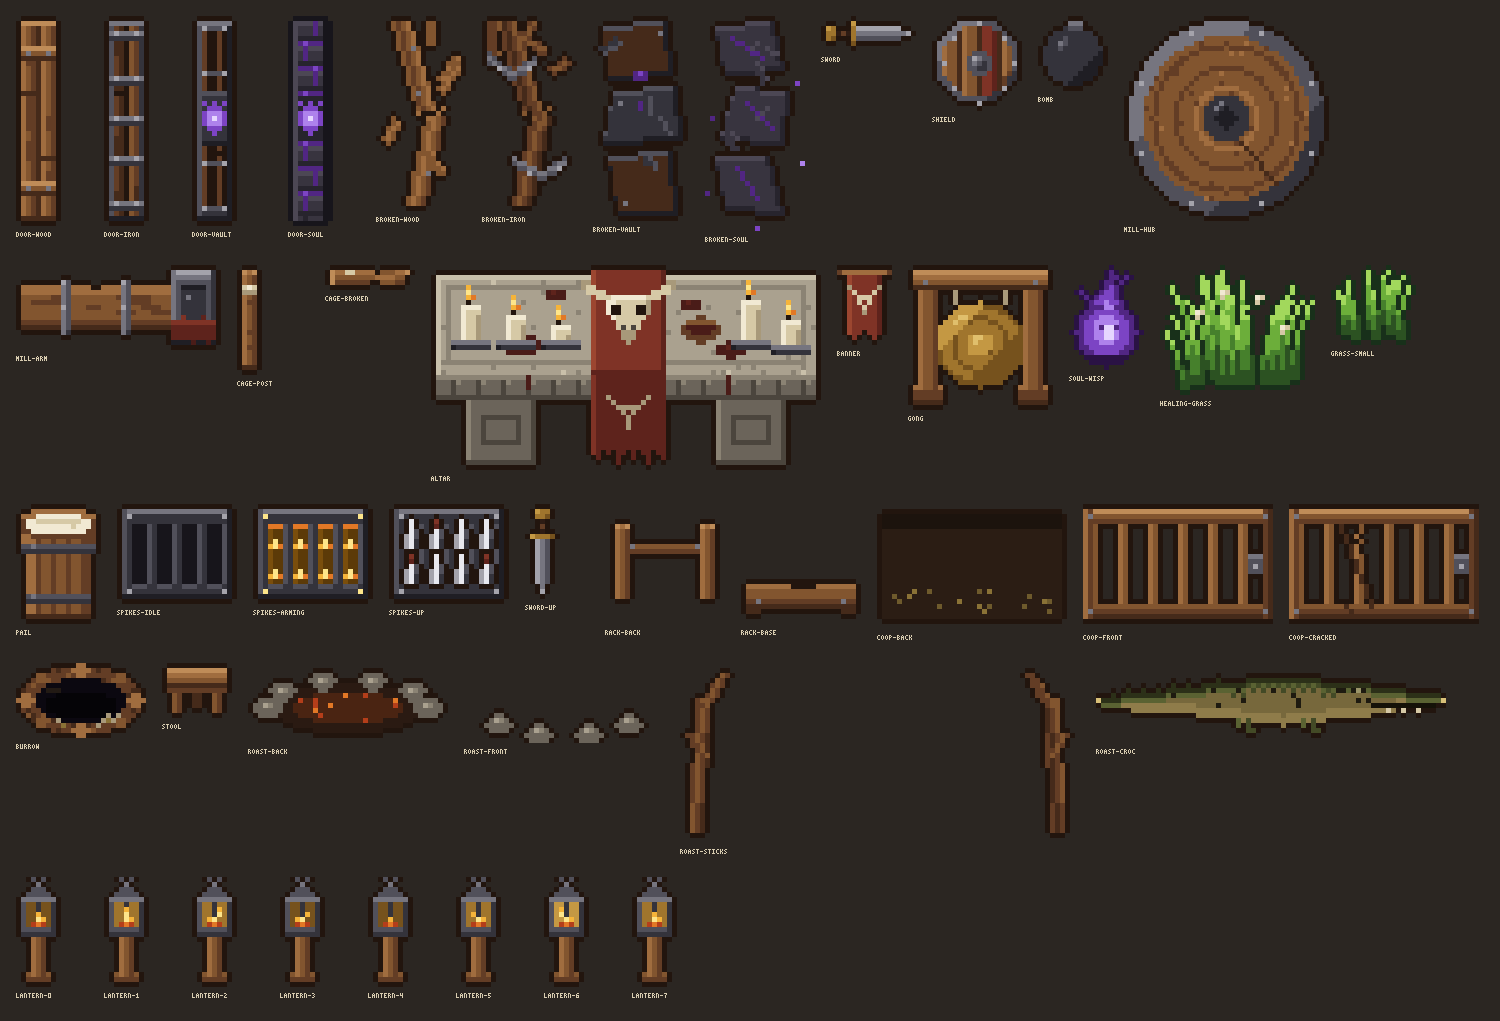
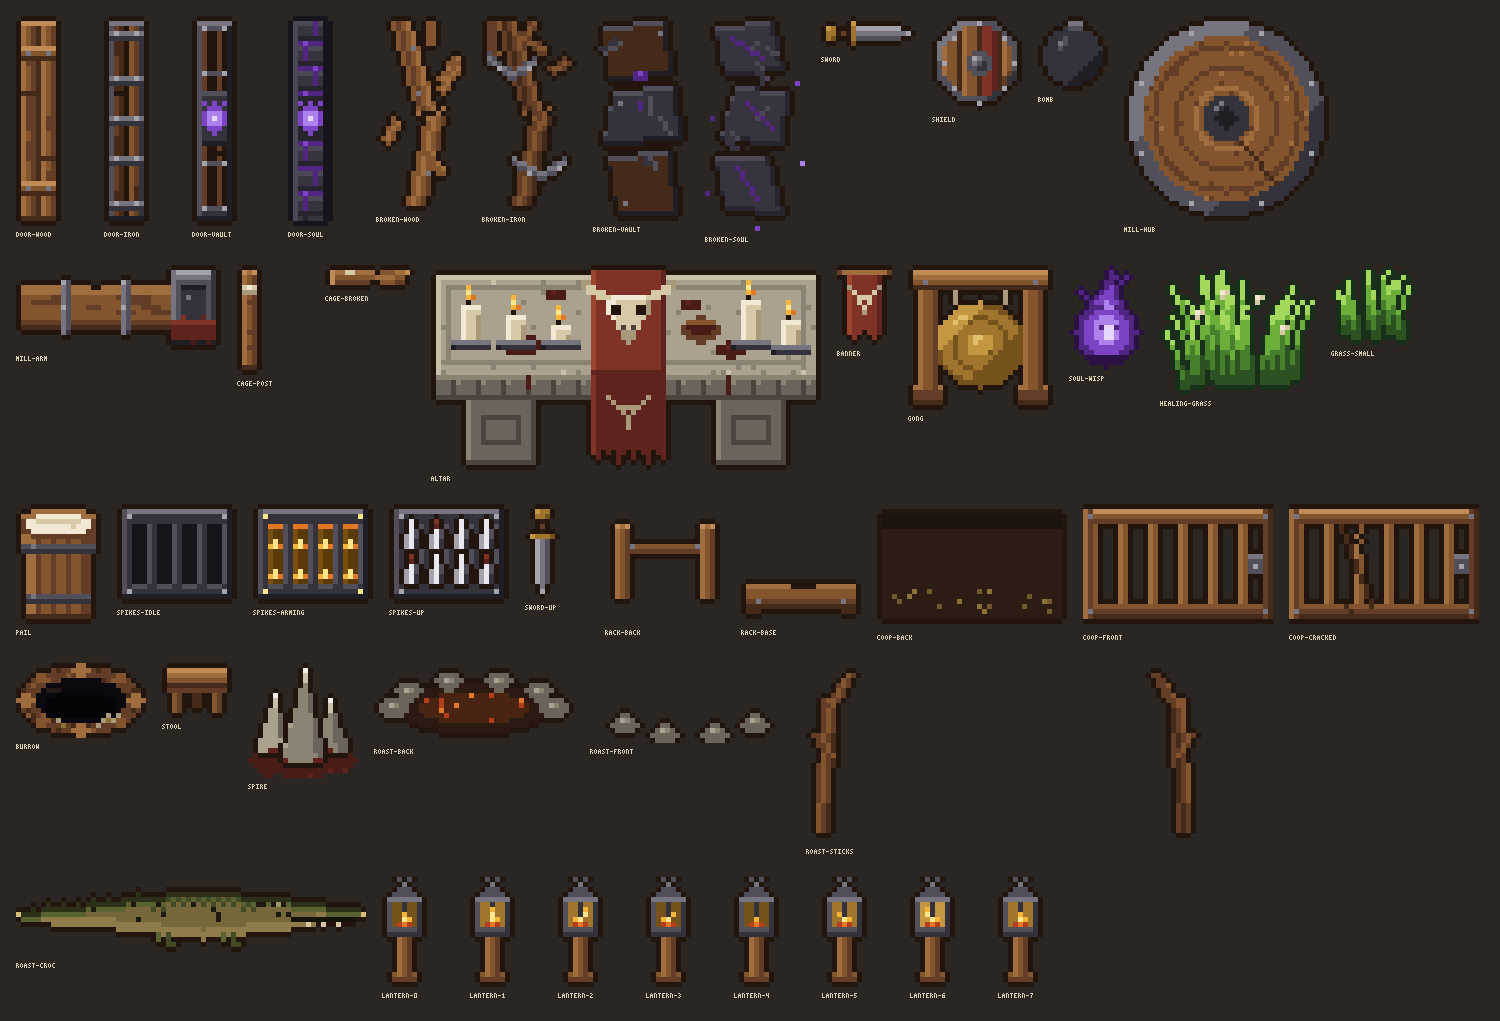
1.64: the cave's teeth and the stairs in pixels
Renderer.drawSpire and drawStairs are wrapped in js/prop-pixels.js: three
stone teeth in a pool of old blood, and stone steps on the pixel grain
(riser, lit nosing, speckled tread), the fork's cold flight going into
black with a cold rim and no pulse.

diff --git a/js/prop-pixels.js b/js/prop-pixels.js
@@ -606,6 +606,26 @@ const PROP_PIXELS = (() => {
     return g.outline();
   }
 
+  // ---------------------------------------------------------------- the cave's teeth
+  // Three stone teeth standing out of old blood: the back two lower, the front one tall, every point
+  // the brightest thing on it. The blood round the foot is what says the rock kills. 22 x 24.
+  function spire() {
+    const pool = new Grid(22, 24), r = rng(101);
+    pool.ell(11, 20.5, 10.5, 3.2, P.bl); pool.speckle(r, 26, P.r1, [P.bl]); pool.speckle(r, 8, P.r2, [P.bl]);
+    pool.ell(4, 22.5, 2.4, 1.2, P.bl); pool.set(19, 22, P.r1);
+    const tooth = (g, x0, x1, tx, ty, by) => {
+      g.poly([[x0, by], [tx + 0.5, ty], [x1, by]], P.s2);
+      g.tone((x, y) => x + 0.5 > tx + 0.5 + (y - ty) * 0.12, P.s1, [P.s2]);        // the far side in shade
+      g.tone((x, y) => x < tx - 1 + (y - ty) * -0.25 + 1, P.s3, [P.s2]);            // the lit edge
+      for (let y = ty; y < ty + 3; y++) g.set(tx, y, y === ty ? '#f2efe6' : P.s4);   // the point
+      for (let x = Math.ceil(x0); x < x1; x++) if (r() < 0.45) g.set(x, by - 1, P.r1); // blood up the foot
+    };
+    const back = new Grid(22, 24), front = new Grid(22, 24);
+    tooth(back, 1.5, 8.5, 5, 7, 19); tooth(back, 13.5, 20.5, 16, 8, 19); back.outline();
+    tooth(front, 6.5, 15.5, 11, 2, 21); front.outline();
+    return pool.blit(back, 0, 0).blit(front, 0, 0);
+  }
+
   const sprites = {
     'door-wood': doorWood(), 'door-iron': doorIron(), 'door-vault': doorVault(), 'door-soul': doorSoul(),
     'broken-wood': debris('wood'), 'broken-iron': debris('iron'), 'broken-vault': debris('vault'), 'broken-soul': debris('soul'),
@@ -616,12 +636,12 @@ const PROP_PIXELS = (() => {
     'spikes-idle': grating('idle'), 'spikes-arming': grating('arming'), 'spikes-up': grating('up'),
     'sword-up': swordUp(), 'rack-back': rackBack(), 'rack-base': rackBase(),
     'coop-back': coopBack(), 'coop-front': coopFront(false), 'coop-cracked': coopFront(true),
-    burrow: burrow(), stool: stool(), 'roast-back': roastRing(false), 'roast-front': roastRing(true), 'roast-sticks': roastSticks(), 'roast-croc': croc(),
+    burrow: burrow(), stool: stool(), spire: spire(), 'roast-back': roastRing(false), 'roast-front': roastRing(true), 'roast-sticks': roastSticks(), 'roast-croc': croc(),
   };
   for (let k = 0; k < 8; k++) sprites['lantern-' + k] = lantern(k);
   // A layered sprite keeps its whole frame so its layers line up; everything else is cut to its silhouette.
   for (const k in sprites) if (!/^(rack|coop|roast)-/.test(k)) sprites[k] = sprites[k].trim();
-  return { P, Grid, sprites };
+  return { P, Grid, sprites, rng };
 })();
 if (typeof module !== 'undefined') module.exports = PROP_PIXELS;
 
@@ -632,7 +652,7 @@ if (typeof module !== 'undefined') module.exports = PROP_PIXELS;
 // drawn here outright at `TX` world px a texel, the grain of the crate and barrel beside them.
 // `PROP_PIXELS.on = false` (or `#paintedprops`) brings the old ones back for a side-by-side.
 if (typeof document !== 'undefined' && typeof PaintedArt !== 'undefined') (() => {
-  const UP = 4, TX = 1.35, baked = {}, S = PROP_PIXELS.sprites;
+  const UP = 4, TX = 1.35, baked = {}, S = PROP_PIXELS.sprites, rng = PROP_PIXELS.rng;
   PROP_PIXELS.on = !/paintedprops/.test(location.hash);
   const canvasOf = name => {
     if (baked[name]) return baked[name];
@@ -796,7 +816,58 @@ if (typeof document !== 'undefined' && typeof PaintedArt !== 'undefined') (() =>
     return drawProp.call(this, renderer, p);
   };
 
-  const R = Renderer.prototype, drawPail = R.drawPail, drawBurrow = R.drawBurrow, drawRoast = R.drawRoast;
+  const R = Renderer.prototype, drawPail = R.drawPail, drawBurrow = R.drawBurrow, drawRoast = R.drawRoast,
+    drawSpire = R.drawSpire, drawStairs = R.drawStairs;
+  // The cave's teeth, with their point catching the light now and then (`cave.spikes.glint`).
+  R.drawSpire = function (p) {
+    if (!PROP_PIXELS.on) return drawSpire.call(this, p);
+    const g = S.spire, k = p.r * 2.4 / g.w, x0 = p.x - g.w * k / 2, y0 = p.y + 5 - g.h * k;
+    this.shadow(p.x, p.y + 2, p.r * 0.95, p.r * 0.42);
+    put(this.ctx, 'spire', x0, y0, k);
+    const tw = Math.pow(Math.max(0, Math.sin(this.t * 1.6 + p.x * 0.05)), 8);
+    if (tw > 0.04 && !this.baking) { this.ctx.fillStyle = `rgba(255,255,255,${tw * TUNING.cave.spikes.glint})`; this.ctx.fillRect(x0 + 10 * k, y0 + 1 * k, k * 1.5, k * 1.5); }
+  };
+  // A flight of stairs as stone steps on the pixel grain: each tile four steps, each step a dark riser,
+  // a lit nosing and a speckled tread, the slabs' joints staggered step to step. Up a flight the treads
+  // pale toward the light at the top; the fork's cold flight and the way down go into black. Baked once
+  // per level colour, direction and tile of the flight.
+  const hex = c => { const n = parseInt(c.slice(1, 7), 16); return [n >> 16 & 255, n >> 8 & 255, n & 255]; };
+  const mix = (a, b, t) => a.map((v, i) => Math.round(v + (b[i] - v) * t));
+  const css = c => `rgb(${c[0]},${c[1]},${c[2]})`;
+  const BONE = [239, 230, 208], BLACK = [5, 4, 8], COLD = [150, 158, 210];
+  const stairTile = (def, k, up, cold, v) => {
+    const key = [def.wall, def.wallTop, k, up, cold, v].join('|');
+    if (baked[key]) return baked[key];
+    const c = document.createElement('canvas'), x = c.getContext('2d'), N = 24, r = rng(k * 31 + v * 7 + (up ? 3 : 0));
+    c.width = c.height = N * UP;
+    for (let i = 0; i < 4; i++) {
+      const n = k * 4 + i, f = Math.min(1, n / 11);
+      let tread = hex(up ? def.wallTop : def.wall);
+      if (up && cold) tread = mix(tread, BLACK, 0.3 + 0.68 * f);
+      else if (up) tread = mix(tread, BONE, 0.1 + 0.68 * f * f);
+      else tread = mix(mix(tread, BONE, 0.04 + 0.34 * f), BLACK, 0.85 * (1 - f) * (1 - f));
+      const joint = (n * 3) % 8;
+      for (let yy = 0; yy < N; yy++) for (let q = 0; q < 6; q++) {
+        let col = tread;
+        if (q === 0) col = mix(tread, BLACK, 0.5);
+        else if (q === 1) col = up && cold ? mix(tread, COLD, 0.26 * (1 - f)) : mix(tread, BONE, 0.2);
+        else if ((yy - joint + 8) % 8 === 0) col = mix(tread, BLACK, 0.3);
+        else { const d = r(); if (d < 0.16) col = mix(tread, BLACK, 0.14); else if (d > 0.92) col = mix(tread, BONE, 0.1); }
+        x.fillStyle = css(col); x.fillRect((i * 6 + q) * UP, yy * UP, UP, UP);
+      }
+    }
+    return baked[key] = c;
+  };
+  R.drawStairs = function (px, py, k, up, def, cold) {
+    if (!PROP_PIXELS.on) return drawStairs.call(this, px, py, k, up, def, cold);
+    const ctx = this.ctx, smooth = ctx.imageSmoothingEnabled; ctx.imageSmoothingEnabled = true;
+    ctx.drawImage(stairTile(def, k, up, !!cold, (py / TILE | 0) % 3), px, py, TILE, TILE);
+    ctx.imageSmoothingEnabled = smooth;
+    if (up && k === 2 && !cold) {
+      const pulse = 0.55 + 0.25 * Math.sin(this.t * 3.4);
+      ctx.fillStyle = `rgba(255,224,138,${pulse * 0.45})`; ctx.fillRect(px + TILE * 0.5, py - 8, TILE * 0.7, TILE + 16);
+    }
+  };
   // The mouse's pail as tall as the goat, a pip on its hoop for every heart still in it.
   R.drawPail = function (p) {
     if (!PROP_PIXELS.on) return drawPail.call(this, p);

diff --git a/js/tuning.js b/js/tuning.js
@@ -2,7 +2,7 @@
 const TILE = 32;
 // The version tag shown under the seed in the corner of the screen, and nothing else — bump it
 // by hand alongside a CHANGELOG entry so a bug report can name the build it happened on.
-const BUILD = '1.63';
+const BUILD = '1.64';
 
 // The world is drawn squashed a little on Y, so the camera reads as tilted off straight-down
 // and the creatures show a bit of their side. Collision and AI stay in flat world space.

diff --git a/CLAUDE.md b/CLAUDE.md
@@ -141,9 +141,9 @@ packer leaves every edge half transparent, which point-sampled into a ragged rim
 **Props are pixels too** (1.63). `js/prop-pixels.js` draws every prop the painted pack or a primitive
 used to: doors and their debris, sword, shield and the stand of arms (layered: the arm stands IN it),
 the wheel, cage posts, altar, banner, gong, lantern, soul wisp, both grasses, the pail, grating, bomb,
-coop, burrow, stool, the roast. Each sprite is a `Grid` built by drawing calls, outlined, baked at
+coop, burrow, stool, the roast, the cave spires (1.64) and the stairs (1.64, baked per tile, `cold` honoured). Each sprite is a `Grid` built by drawing calls, outlined, baked at
 `UP` and drawn smoothed; it wraps `PaintedArt.stamp` / `atlas` / `fire` / `millArm` / `brokenDoor` /
-`drawProp` and `Renderer.drawPail` / `drawBurrow` / `drawRoast`, fitting each into the painted one's
+`drawProp` and `Renderer.drawPail` / `drawBurrow` / `drawRoast` / `drawSpire` / `drawStairs`, fitting each into the painted one's
 measured box, so no footprint moved. render.js asks `painted.pixelProps` where a primitive sits
 inline (mill caps and hub, the ware's stool, the shelf pail). `#paintedprops` brings the old art back.
 `node output/pixel-claude-2026-09-24/render.cjs 6 [names]` renders them to a sheet.

diff --git a/CHANGELOG.md b/CHANGELOG.md
@@ -5,6 +5,20 @@ https://claude.ai/code/artifact/098e742b-e742-4ce7-8499-a303fa5db021
 
 ---
 
+## 1.64 — the cave's teeth and the stairs in pixels
+
+- **The cave's teeth.** A spire was the environment pack's stalagmites standing on two smooth blood
+  ellipses. It is one pixel sprite now: three stone teeth, the back two lower, every point the
+  brightest thing on it and catching the light now and then (`cave.spikes.glint`), standing in a pool
+  of old blood drawn in cells.
+- **The stairs.** A flight was a per-step gradient. Each tile is four stone steps on the pixel grain
+  now — a dark riser, a lit nosing, a speckled tread, the slabs' joints staggered step to step — baked
+  once per level colour. Up a flight the treads pale toward the light at the top (the warm pulse is
+  kept); THE FORK's cold flight goes into black with a cold rim on every nosing and no pulse; the way
+  down darkens as before. Both are `js/prop-pixels.js` wraps of `Renderer.drawSpire` / `drawStairs`.
+
+---
+
 ## 1.63 — every prop in pixels, and what he carries in his teeth
 
 - **The last painted props are pixels** (`js/prop-pixels.js`, new). Doors (wood, iron, vault, soul

diff --git a/ART_HANDOFF.md b/ART_HANDOFF.md
@@ -30,13 +30,11 @@ The sprite itself always comes from `PIXEL_ART.draw`.
 
 ## Still to be drawn in pixel
 
-Every prop is pixel art since 1.63 (`js/prop-pixels.js`). What is still not:
+Every prop is pixel art since 1.63 (`js/prop-pixels.js`), the cave spires and the stairs since 1.64. What is still not:
 
 - **Ominous decals** — `output/pixel-ominous-decals-2026-09-23` holds three floor pictograms and a
   wall sign, generated and measured but **not integrated**. The cult's own floor pictograms
   (`CULT_GLYPHS`, `world.js`) were redrawn as a butcher's marks in 1.63 instead.
-- **The stairs** are still a gradient per tile (`Renderer.drawStairs`).
-- **The cave spires** draw the `stalagmites` pixel prop over two smooth blood ellipses.
 
 **Adding a prop sprite by hand** (the 1.63 way, no image generation): write a function in
 `js/prop-pixels.js` that fills a `Grid` with `rect` / `ell` / `line` / `poly` / `bar` in palette colours,
